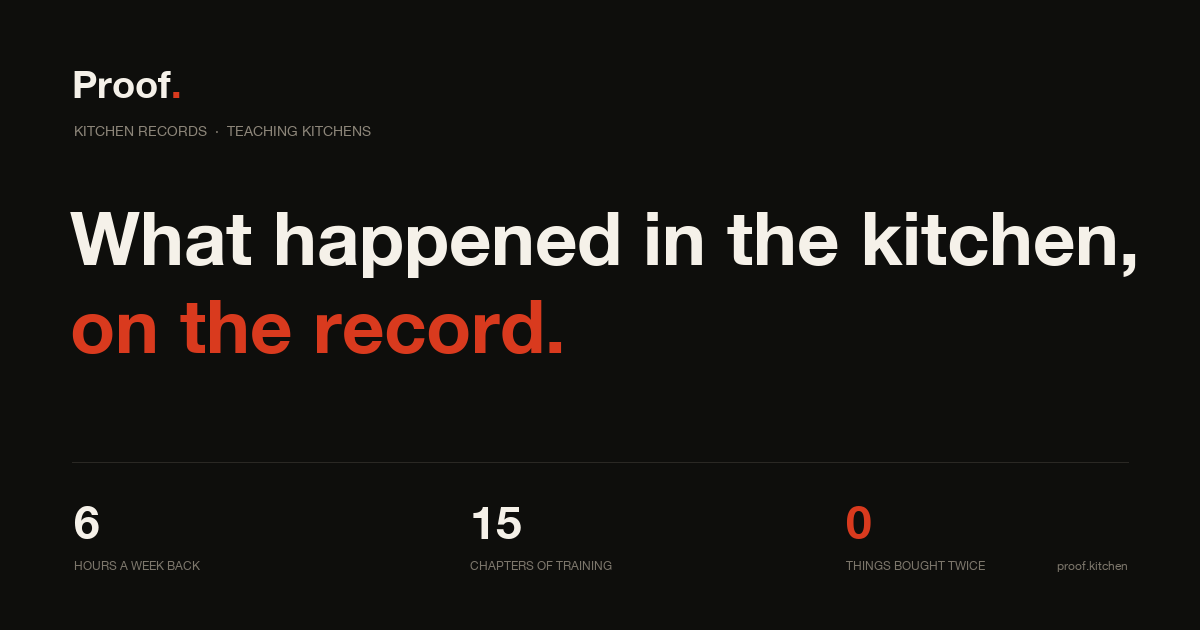
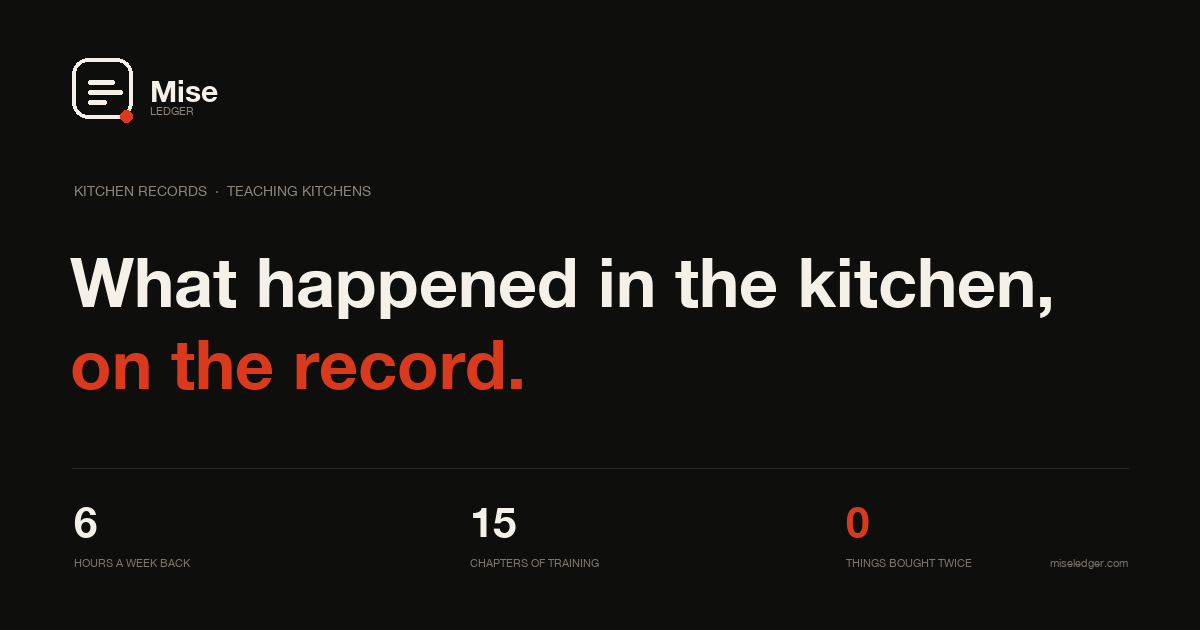
brand: the landing becomes Mise Ledger
Wordmark with the mark, title and social card, contact at miseledger.com, and the
closing line now says ledger.

diff --git a/index.html b/index.html
@@ -3,9 +3,9 @@
 <head>
 <meta charset="UTF-8"/>
 <meta name="viewport" content="width=device-width, initial-scale=1"/>
-<title>Proof — the kitchen that remembers</title>
-<meta name="description" content="Proof is the lab-operations system for teaching kitchens: week plans, a pantry that knows its pack sizes, temperatures with corrective actions, and the notebook that replaces the paper manual."/>
-<meta property="og:title" content="Proof — what happened in the kitchen, on the record"/>
+<title>Mise Ledger — the kitchen that remembers</title>
+<meta name="description" content="Mise Ledger is the lab-operations system for teaching kitchens: week plans, a pantry that knows its pack sizes, temperatures with corrective actions, and the notebook that replaces the paper manual."/>
+<meta property="og:title" content="Mise Ledger — what happened in the kitchen, on the record"/>
 <meta property="og:image" content="og.png"/>
 <meta property="og:image:width" content="1200"/>
 <meta property="og:image:height" content="630"/>
@@ -248,7 +248,7 @@
 <div id="scrollbar"><i></i></div>
 <div class="wrap">
   <header>
-    <div class="mark">Proof<i>.</i></div>
+    <div class="mark"><svg width="20" height="20" viewBox="0 0 64 64" aria-hidden="true" style="vertical-align:-3px;margin-right:9px"><rect x="6.5" y="6.5" width="51" height="51" rx="13" fill="none" stroke="currentColor" stroke-width="4"/><rect x="17" y="23" width="23" height="4" rx="2" fill="currentColor"/><rect x="17" y="32" width="30" height="4" rx="2" fill="currentColor"/><rect x="17" y="41" width="16" height="4" rx="2" fill="currentColor"/><circle cx="45" cy="45" r="5.5" fill="#D93A1E"/></svg>Mise Ledger</div>
     <nav><a href="#system">System</a><a href="#walk">The walk</a><a href="#price">Start</a><a href="#faq">FAQ</a><a href="https://teaching-kitchen-os.vercel.app" style="margin-left:26px">Sign in</a><a class="navcta" href="mailto:hello@kyvex.tech?subject=Pilot">Request a pilot</a></nav>
   </header>
 </div>
@@ -369,7 +369,7 @@
         <small>Instructor, teaching kitchen</small>
       </div>
       <div class="body">
-        <p style="margin-top:0">Proof was built inside a working lab, not a demo: temperatures, receiving, lots first-out-first, equipment readings with a corrective action, and a training tour that signs off with a date.</p>
+        <p style="margin-top:0">Mise Ledger was built inside a working lab, not a demo: temperatures, receiving, lots first-out-first, equipment readings with a corrective action, and a training tour that signs off with a date.</p>
         <p>Every screen is in English, every change is logged, and every institution sees only its own data.</p>
       </div>
     </div>
@@ -387,7 +387,7 @@
       <article class="tier dark">
         <div class="tier-tag">For a funder</div>
         <h3>Sponsor a cohort</h3>
-        <p>$12,000 funds one year: development, the fifteen training chapters, content support and hosting. The department uses Proof at no license cost during the funded year.</p>
+        <p>$12,000 funds one year: development, the fifteen training chapters, content support and hosting. The department uses Mise Ledger at no license cost during the funded year.</p>
         <div class="tier-foot"><span class="tier-price">$12,000<small>/ year</small></span><span class="tier-note">Reportable in quarters</span></div>
       </article>
     </div>
@@ -403,16 +403,16 @@
   </section>
 
   <footer>
-    <div>Proof · Kyvex Technology LLC · Milwaukee</div>
+    <div>Mise Ledger · Kyvex Technology LLC · Milwaukee</div>
     <div>Teaching kitchens · residence halls · campus dining</div>
   </footer>
 </div>
 
 <div class="cta">
   <div class="wrap">
-    <h2>Bring your lab <em>on the record.</em></h2>
+    <h2>Bring your lab <em>on the ledger.</em></h2>
     <p class="sub">A 45-minute walkthrough, on your kitchen, with your week.</p>
-    <a class="btn" href="mailto:hello@kyvex.tech?subject=Proof%20pilot">hello@kyvex.tech</a>
+    <a class="btn" href="mailto:hola@miseledger.com?subject=Pilot">hola@miseledger.com</a>
   </div>
 </div>
 
